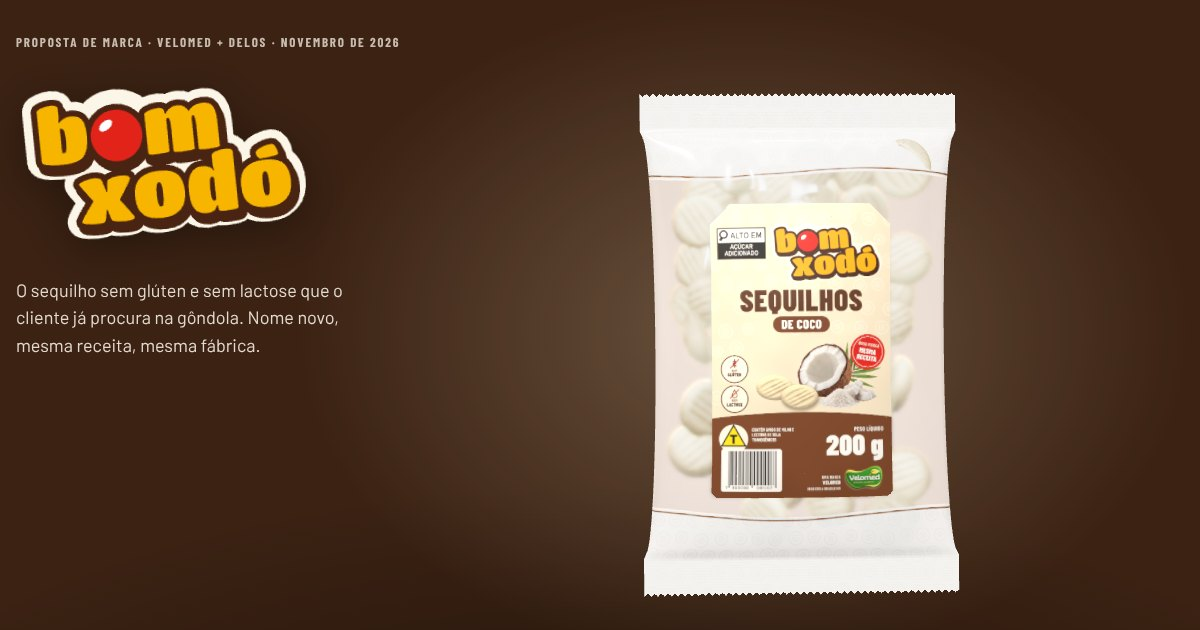
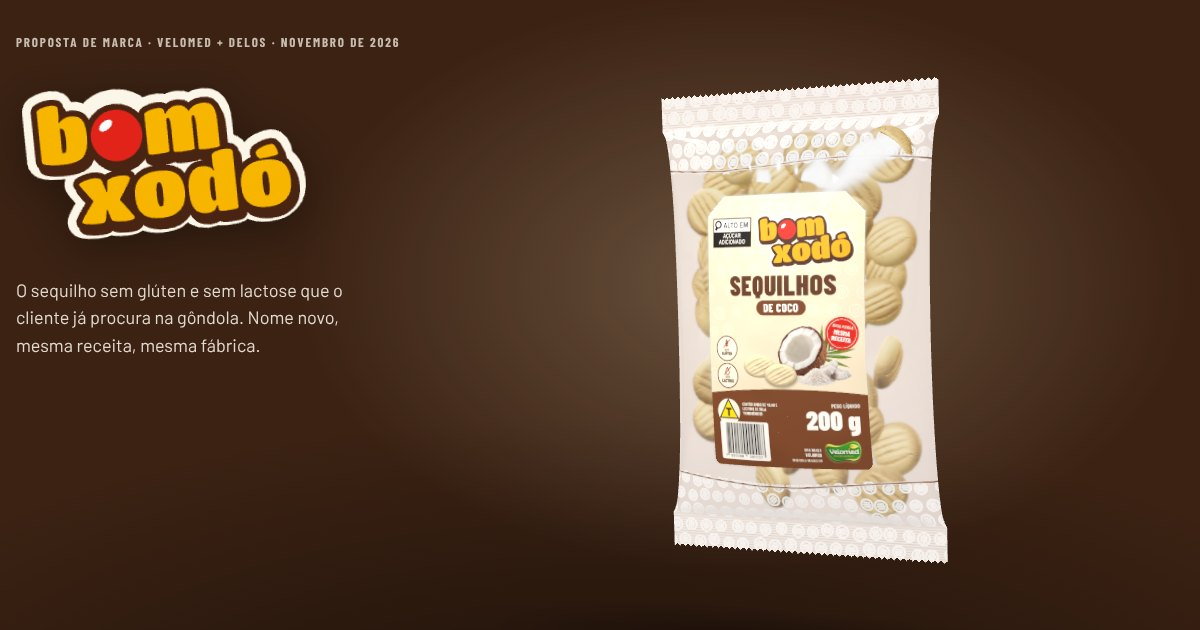
Velomed sequilhos: 3D mais real (filme transparente com estampa em traço, sequilhos dourados, ângulo 3/4) e nova prévia de link
Claude-Session: https://claude.ai/code/session_01MMuTZk4j3QPe22G4ZNiWQx

Changed region(s): [[0.5242, 0.1206, 0.8017, 0.9651]]

diff --git a/velomed/sequilhos/proposta/js/pacote3d.js b/velomed/sequilhos/proposta/js/pacote3d.js
@@ -109,47 +109,41 @@ function filmTextures() {
   const [cc, cx] = mk(); const [tc, tx] = mk(); const [ac, ax] = mk(); const [rc, rx] = mk();
   cx.fillStyle = '#ffffff'; cx.fillRect(0, 0, w, h);
   tx.fillStyle = '#ffffff'; tx.fillRect(0, 0, w, h);          // transmissão total (filme limpo)
-  rx.fillStyle = '#2a2a2a'; rx.fillRect(0, 0, w, h);          // rugosidade baixa
+  rx.fillStyle = '#0d0d0d'; rx.fillRect(0, 0, w, h);          // filme liso e brilhante
   ax.fillStyle = '#ffffff'; ax.fillRect(0, 0, w, h);
   const sealPx = h * S, band = h * 0.17;
-  const rnd = rng(5);
-  // faixas impressas (branco opaco com sequilhos em traço), em cima e embaixo
+    // faixas impressas: sequilhos em traço branco sobre o filme transparente (como o saco atual), em cima e embaixo
   for (const top of [true, false]) {
     const y0 = top ? 0 : h - band;
-    tx.save(); cx.save();
-    tx.beginPath(); cx.beginPath();
-    // borda ondulada da faixa
     const edge = (x) => (top ? band : h - band) + Math.sin(x / w * Math.PI * 2 + (top ? 0 : 2)) * 14 * (top ? 1 : -1);
-    for (const g of [tx, cx]) {
+    for (const [g, cor] of [[cx, '#fffdf8'], [tx, '#000000']]) {
+      g.save(); g.beginPath();
       g.moveTo(0, top ? 0 : h);
       for (let x = 0; x <= w; x += 16) g.lineTo(x, edge(x));
-      g.lineTo(w, top ? 0 : h); g.closePath();
-    }
-    tx.fillStyle = '#1c1c1c'; tx.fill();
-    cx.fillStyle = '#fbf8f2'; cx.fill();
-    cx.clip();
-    cx.strokeStyle = '#e4dccd'; cx.lineWidth = 3;
-    for (let yy = y0 - 40; yy < y0 + band + 40; yy += 62) for (let xx = -40; xx < w + 40; xx += 62) {
-      const x = xx + (Math.floor(yy / 62) % 2 ? 31 : 0) + (rnd() - 0.5) * 14, y = yy + (rnd() - 0.5) * 14, r = 19 + rnd() * 4;
-      cx.beginPath(); cx.arc(x, y, r, 0, Math.PI * 2); cx.stroke();
-      const a = rnd() * Math.PI;
-      for (const k of [-1, 0, 1]) {
-        const ox = Math.cos(a + Math.PI / 2) * k * r * 0.38, oy = Math.sin(a + Math.PI / 2) * k * r * 0.38, l = r * (k ? 0.45 : 0.6);
-        cx.beginPath(); cx.moveTo(x + ox - Math.cos(a) * l, y + oy - Math.sin(a) * l); cx.lineTo(x + ox + Math.cos(a) * l, y + oy + Math.sin(a) * l); cx.stroke();
+      g.lineTo(w, top ? 0 : h); g.closePath(); g.clip();
+      g.strokeStyle = cor; g.lineWidth = 5; g.lineCap = 'round';
+      const r2 = rng(top ? 5 : 9);
+      for (let yy = y0 - 40; yy < y0 + band + 40; yy += 58) for (let xx = -40; xx < w + 40; xx += 58) {
+        const x = xx + (Math.floor(yy / 58) % 2 ? 29 : 0) + (r2() - 0.5) * 12, y = yy + (r2() - 0.5) * 12, r = 18 + r2() * 4;
+        g.beginPath(); g.arc(x, y, r, 0, Math.PI * 2); g.stroke();
+        const a2 = r2() * Math.PI;
+        for (const k of [-1, 0, 1]) {
+          const ox = Math.cos(a2 + Math.PI / 2) * k * r * 0.38, oy = Math.sin(a2 + Math.PI / 2) * k * r * 0.38, l = r * (k ? 0.45 : 0.6);
+          g.beginPath(); g.moveTo(x + ox - Math.cos(a2) * l, y + oy - Math.sin(a2) * l); g.lineTo(x + ox + Math.cos(a2) * l, y + oy + Math.sin(a2) * l); g.stroke();
+        }
       }
+      g.restore();
+      // filete marrom acompanhando a borda da faixa
+      g.strokeStyle = g === cx ? '#6b4226' : '#000000'; g.lineWidth = 7; g.beginPath();
+      for (let x = 0; x <= w; x += 16) { const y = edge(x) + (top ? -10 : 10); x ? g.lineTo(x, y) : g.moveTo(x, y); }
+      g.stroke();
     }
-    cx.restore();
-    // filete marrom acompanhando a borda (como no saco atual)
-    cx.strokeStyle = '#6b4226'; cx.lineWidth = 7; cx.beginPath();
-    for (let x = 0; x <= w; x += 16) { const y = edge(x) + (top ? -10 : 10); x ? cx.lineTo(x, y) : cx.moveTo(x, y); }
-    cx.stroke();
-    tx.restore();
   }
   // solda: frisos horizontais (mais fosco) + serrilha recortada
   for (const top of [true, false]) {
     const y0 = top ? 0 : h - sealPx;
     for (let y = y0 + 6; y < y0 + sealPx - 4; y += 9) {
-      cx.fillStyle = 'rgba(205,200,190,0.55)'; cx.fillRect(0, y, w, 3);
+      cx.fillStyle = 'rgba(225,220,210,0.6)'; cx.fillRect(0, y, w, 3); tx.fillStyle = '#9a9a9a'; tx.fillRect(0, y, w, 3);
       rx.fillStyle = '#8a8a8a'; rx.fillRect(0, y, w, 4);
     }
     ax.fillStyle = '#000000';
@@ -263,7 +257,7 @@ export function criarCompartilhado(renderer, cookieTexUrl) {
   const labelFGeo = surfaceGeometry(1, u0, u1, v0, v1, 50, 82, 0.0011, (u, v) => [(u - u0) / (u1 - u0), (v - v0) / (v1 - v0)]);
   const labelBGeo = surfaceGeometry(-1, u0, u1, v0, v1, 50, 82, 0.0011, (u, v) => [(u1 - u) / (u1 - u0), (v - v0) / (v1 - v0)]);
   const ct = new THREE.TextureLoader().load(cookieTexUrl); ct.colorSpace = THREE.SRGBColorSpace; ct.anisotropy = 4;
-  const cookieMat = new THREE.MeshStandardMaterial({ map: ct, bumpMap: ct, bumpScale: 1.4, roughness: 0.92, metalness: 0, color: 0xffffff });
+  const cookieMat = new THREE.MeshStandardMaterial({ map: ct, bumpMap: ct, bumpScale: 2.2, roughness: 0.95, metalness: 0, color: 0xe2c08c, envMapIntensity: 0.6 });
   return { film, frontGeo, backGeo, labelFGeo, labelBGeo, cookieGeo: cookieGeometry(), cookieMat };
 }
 
@@ -280,12 +274,13 @@ export class Palco {
     const pm = new THREE.PMREMGenerator(r);
     scene.environment = pm.fromScene(new RoomEnvironment(r), 0.035).texture;
     const cam = this.camera = new THREE.PerspectiveCamera(30, 1, 0.01, 20);
-    cam.position.set(0.0, 0.03, 0.78);
+    cam.position.set(0.24, 0.05, 0.68);
     const key = new THREE.DirectionalLight(0xfff1dc, 2.4); key.position.set(-0.6, 0.9, 1.0); key.castShadow = true;
     key.shadow.mapSize.set(1024, 1024); key.shadow.camera.left = key.shadow.camera.bottom = -0.4; key.shadow.camera.right = key.shadow.camera.top = 0.4; key.shadow.bias = -0.0004;
     scene.add(key);
     const rim = new THREE.DirectionalLight(0xffe2b0, 1.6); rim.position.set(0.7, 0.5, -0.9); scene.add(rim);
     scene.add(new THREE.HemisphereLight(0xfff8ef, 0x3a2a1c, 0.55));
+    const topo = new THREE.DirectionalLight(0xffffff, 1.1); topo.position.set(0.25, 1.3, 0.35); scene.add(topo);
     const ctl = this.controls = new OrbitControls(cam, canvas);
     ctl.enableDamping = true; ctl.dampingFactor = 0.07; ctl.enablePan = false;
     ctl.minDistance = 0.32; ctl.maxDistance = 4.5; ctl.minPolarAngle = Math.PI * 0.18; ctl.maxPolarAngle = Math.PI * 0.82;
@@ -342,11 +337,12 @@ export class Palco {
     this.sombra.scale.set(n === 1 ? 1 : cols * 0.55, 1, n === 1 ? 1 : 1.6);
     this.layout = { cols, rows, n };
     this.irPara(this.distancia(), n === 1 ? null : 0);
+    this._primeira = false;
   }
   distancia() {
     const { cols = 1, rows = 1 } = this.layout || {};
     const vt = Math.tan(THREE.MathUtils.degToRad(this.camera.fov / 2));
-    const hw = cols === 1 ? 0.13 : cols * 0.205 / 2 + 0.06, hh = rows === 1 ? 0.2 : rows * 0.31 / 2 + 0.05;
+    const hw = cols === 1 ? 0.12 : cols * 0.205 / 2 + 0.06, hh = rows === 1 ? 0.185 : rows * 0.31 / 2 + 0.05;
     return Math.max(hh / vt, hw / (vt * this.camera.aspect)) * 1.04;
   }
   irPara(dist, azimute) {

diff --git a/velomed/sequilhos/proposta/index.html b/velomed/sequilhos/proposta/index.html
@@ -428,12 +428,12 @@ footer .wrap { display: flex; flex-wrap: wrap; gap: 12px 28px; justify-content: 
 import { Palco } from './js/pacote3d.js';
 
 const SABORES = [
-  { id: 'coco', nome: 'Coco', cor: '#7A4524', cmyk: '30 70 90 30', tom: '#fff6e8', palco: '#3b2213' },
-  { id: 'leite-condensado', nome: 'Leite cond.', nomeLongo: 'Leite condensado', cor: '#1F3A5F', cmyk: '100 75 30 25', tom: '#fffaf0', palco: '#14243a' },
-  { id: 'maracuja', nome: 'Maracujá', cor: '#F6B500', cmyk: '0 28 100 0', tom: '#fff3d6', palco: '#4a3306' },
-  { id: 'amendoim', nome: 'Amendoim', cor: '#E5582A', cmyk: '0 75 95 0', tom: '#f6e2c4', palco: '#4a1d0d' },
-  { id: 'limao', nome: 'Limão', cor: '#3DA935', cmyk: '75 0 100 0', tom: '#fbf6dc', palco: '#14381a' },
-  { id: 'cafe', nome: 'Café', cor: '#3B2416', cmyk: '40 75 90 60', tom: '#dcc3a6', palco: '#22140b' },
+  { id: 'coco', nome: 'Coco', cor: '#7A4524', cmyk: '30 70 90 30', tom: '#e2c08c', palco: '#3b2213' },
+  { id: 'leite-condensado', nome: 'Leite cond.', nomeLongo: 'Leite condensado', cor: '#1F3A5F', cmyk: '100 75 30 25', tom: '#e8cc9c', palco: '#14243a' },
+  { id: 'maracuja', nome: 'Maracujá', cor: '#F6B500', cmyk: '0 28 100 0', tom: '#e6c47c', palco: '#4a3306' },
+  { id: 'amendoim', nome: 'Amendoim', cor: '#E5582A', cmyk: '0 75 95 0', tom: '#d6aa70', palco: '#4a1d0d' },
+  { id: 'limao', nome: 'Limão', cor: '#3DA935', cmyk: '75 0 100 0', tom: '#e2ca8e', palco: '#14381a' },
+  { id: 'cafe', nome: 'Café', cor: '#3B2416', cmyk: '40 75 90 60', tom: '#b0835a', palco: '#22140b' },
 ];
 const ROTAS = [
   { id: 'bom-xodo', nome: 'Bom Xodó', rec: true, continuidade: 92, risco: 70,

diff --git a/velomed/sequilhos/proposta/pagina-rotas.html b/velomed/sequilhos/proposta/pagina-rotas.html
@@ -403,12 +403,12 @@ footer .wrap { display: flex; flex-wrap: wrap; gap: 12px 28px; justify-content: 
 import { Palco } from './js/pacote3d.js';
 
 const SABORES = [
-  { id: 'coco', nome: 'Coco', cor: '#7A4524', cmyk: '30 70 90 30', tom: '#fff6e8', palco: '#3b2213' },
-  { id: 'leite-condensado', nome: 'Leite cond.', nomeLongo: 'Leite condensado', cor: '#1F3A5F', cmyk: '100 75 30 25', tom: '#fffaf0', palco: '#14243a' },
-  { id: 'maracuja', nome: 'Maracujá', cor: '#F6B500', cmyk: '0 28 100 0', tom: '#fff3d6', palco: '#4a3306' },
-  { id: 'amendoim', nome: 'Amendoim', cor: '#E5582A', cmyk: '0 75 95 0', tom: '#f6e2c4', palco: '#4a1d0d' },
-  { id: 'limao', nome: 'Limão', cor: '#3DA935', cmyk: '75 0 100 0', tom: '#fbf6dc', palco: '#14381a' },
-  { id: 'cafe', nome: 'Café', cor: '#3B2416', cmyk: '40 75 90 60', tom: '#dcc3a6', palco: '#22140b' },
+  { id: 'coco', nome: 'Coco', cor: '#7A4524', cmyk: '30 70 90 30', tom: '#e2c08c', palco: '#3b2213' },
+  { id: 'leite-condensado', nome: 'Leite cond.', nomeLongo: 'Leite condensado', cor: '#1F3A5F', cmyk: '100 75 30 25', tom: '#e8cc9c', palco: '#14243a' },
+  { id: 'maracuja', nome: 'Maracujá', cor: '#F6B500', cmyk: '0 28 100 0', tom: '#e6c47c', palco: '#4a3306' },
+  { id: 'amendoim', nome: 'Amendoim', cor: '#E5582A', cmyk: '0 75 95 0', tom: '#d6aa70', palco: '#4a1d0d' },
+  { id: 'limao', nome: 'Limão', cor: '#3DA935', cmyk: '75 0 100 0', tom: '#e2ca8e', palco: '#14381a' },
+  { id: 'cafe', nome: 'Café', cor: '#3B2416', cmyk: '40 75 90 60', tom: '#b0835a', palco: '#22140b' },
 ];
 const ROTAS = [
   { id: 'bom-xodo', nome: 'Bom Xodó', rec: true, continuidade: 92, risco: 70,

diff --git a/velomed/sequilhos/proposta/pagina.html b/velomed/sequilhos/proposta/pagina.html
@@ -421,12 +421,12 @@ footer .wrap { display: flex; flex-wrap: wrap; gap: 12px 28px; justify-content: 
 import { Palco } from './js/pacote3d.js';
 
 const SABORES = [
-  { id: 'coco', nome: 'Coco', cor: '#7A4524', cmyk: '30 70 90 30', tom: '#fff6e8', palco: '#3b2213' },
-  { id: 'leite-condensado', nome: 'Leite cond.', nomeLongo: 'Leite condensado', cor: '#1F3A5F', cmyk: '100 75 30 25', tom: '#fffaf0', palco: '#14243a' },
-  { id: 'maracuja', nome: 'Maracujá', cor: '#F6B500', cmyk: '0 28 100 0', tom: '#fff3d6', palco: '#4a3306' },
-  { id: 'amendoim', nome: 'Amendoim', cor: '#E5582A', cmyk: '0 75 95 0', tom: '#f6e2c4', palco: '#4a1d0d' },
-  { id: 'limao', nome: 'Limão', cor: '#3DA935', cmyk: '75 0 100 0', tom: '#fbf6dc', palco: '#14381a' },
-  { id: 'cafe', nome: 'Café', cor: '#3B2416', cmyk: '40 75 90 60', tom: '#dcc3a6', palco: '#22140b' },
+  { id: 'coco', nome: 'Coco', cor: '#7A4524', cmyk: '30 70 90 30', tom: '#e2c08c', palco: '#3b2213' },
+  { id: 'leite-condensado', nome: 'Leite cond.', nomeLongo: 'Leite condensado', cor: '#1F3A5F', cmyk: '100 75 30 25', tom: '#e8cc9c', palco: '#14243a' },
+  { id: 'maracuja', nome: 'Maracujá', cor: '#F6B500', cmyk: '0 28 100 0', tom: '#e6c47c', palco: '#4a3306' },
+  { id: 'amendoim', nome: 'Amendoim', cor: '#E5582A', cmyk: '0 75 95 0', tom: '#d6aa70', palco: '#4a1d0d' },
+  { id: 'limao', nome: 'Limão', cor: '#3DA935', cmyk: '75 0 100 0', tom: '#e2ca8e', palco: '#14381a' },
+  { id: 'cafe', nome: 'Café', cor: '#3B2416', cmyk: '40 75 90 60', tom: '#b0835a', palco: '#22140b' },
 ];
 const ROTAS = [
   { id: 'bom-xodo', nome: 'Bom Xodó', rec: true, continuidade: 92, risco: 70,

diff --git a/velomed/sequilhos/proposta/rotas.html b/velomed/sequilhos/proposta/rotas.html
@@ -410,12 +410,12 @@ footer .wrap { display: flex; flex-wrap: wrap; gap: 12px 28px; justify-content: 
 import { Palco } from './js/pacote3d.js';
 
 const SABORES = [
-  { id: 'coco', nome: 'Coco', cor: '#7A4524', cmyk: '30 70 90 30', tom: '#fff6e8', palco: '#3b2213' },
-  { id: 'leite-condensado', nome: 'Leite cond.', nomeLongo: 'Leite condensado', cor: '#1F3A5F', cmyk: '100 75 30 25', tom: '#fffaf0', palco: '#14243a' },
-  { id: 'maracuja', nome: 'Maracujá', cor: '#F6B500', cmyk: '0 28 100 0', tom: '#fff3d6', palco: '#4a3306' },
-  { id: 'amendoim', nome: 'Amendoim', cor: '#E5582A', cmyk: '0 75 95 0', tom: '#f6e2c4', palco: '#4a1d0d' },
-  { id: 'limao', nome: 'Limão', cor: '#3DA935', cmyk: '75 0 100 0', tom: '#fbf6dc', palco: '#14381a' },
-  { id: 'cafe', nome: 'Café', cor: '#3B2416', cmyk: '40 75 90 60', tom: '#dcc3a6', palco: '#22140b' },
+  { id: 'coco', nome: 'Coco', cor: '#7A4524', cmyk: '30 70 90 30', tom: '#e2c08c', palco: '#3b2213' },
+  { id: 'leite-condensado', nome: 'Leite cond.', nomeLongo: 'Leite condensado', cor: '#1F3A5F', cmyk: '100 75 30 25', tom: '#e8cc9c', palco: '#14243a' },
+  { id: 'maracuja', nome: 'Maracujá', cor: '#F6B500', cmyk: '0 28 100 0', tom: '#e6c47c', palco: '#4a3306' },
+  { id: 'amendoim', nome: 'Amendoim', cor: '#E5582A', cmyk: '0 75 95 0', tom: '#d6aa70', palco: '#4a1d0d' },
+  { id: 'limao', nome: 'Limão', cor: '#3DA935', cmyk: '75 0 100 0', tom: '#e2ca8e', palco: '#14381a' },
+  { id: 'cafe', nome: 'Café', cor: '#3B2416', cmyk: '40 75 90 60', tom: '#b0835a', palco: '#22140b' },
 ];
 const ROTAS = [
   { id: 'bom-xodo', nome: 'Bom Xodó', rec: true, continuidade: 92, risco: 70,
